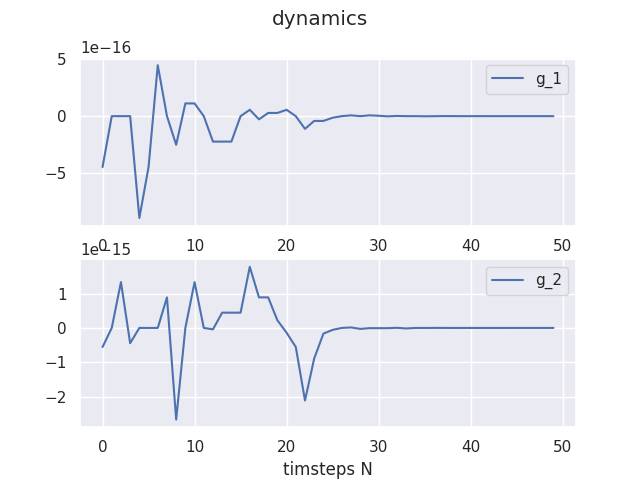
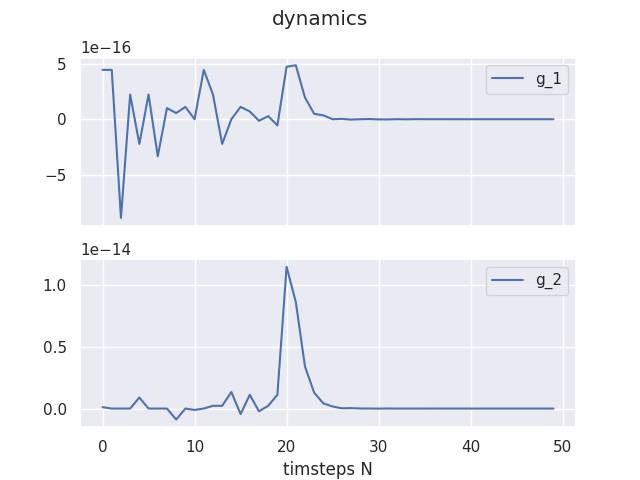
graphs from utils

diff --git a/src/utils_common.py b/src/utils_common.py
@@ -25,7 +25,7 @@ class Plotter:
             fig.savefig(self.result_path + 'state_trajectory_rl.png')
 
     def plot_dynamics(self, g_1, g_2):
-        fig, (ax1, ax2) = plt.subplots(2,1)
+        fig, (ax1, ax2) = plt.subplots(2,1, sharex= True)
         ax1.plot(g_1, label='g_1')
         ax2.plot(g_2, label='g_2')
         ax2.set_xlabel('timsteps N')
